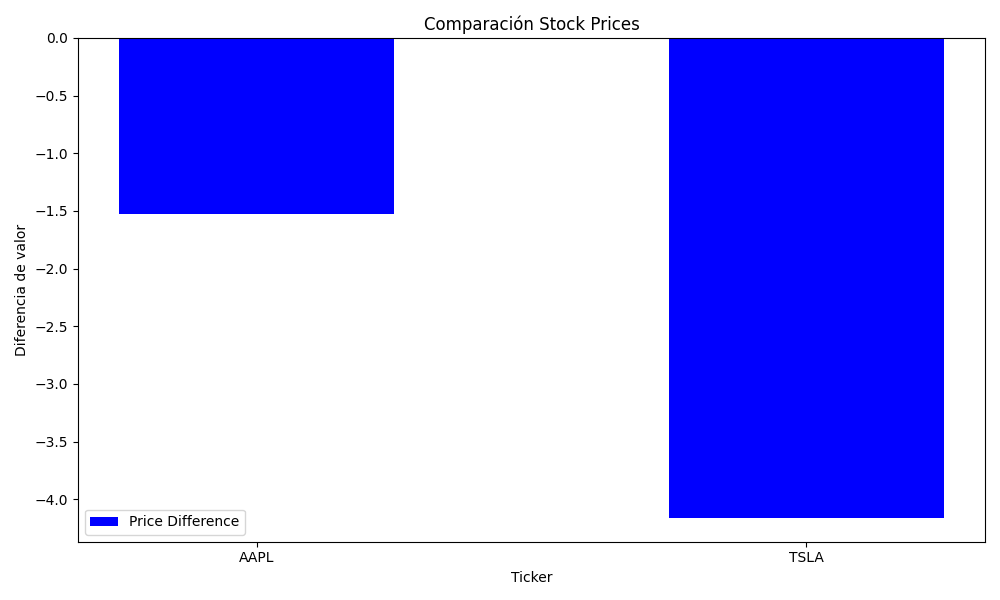
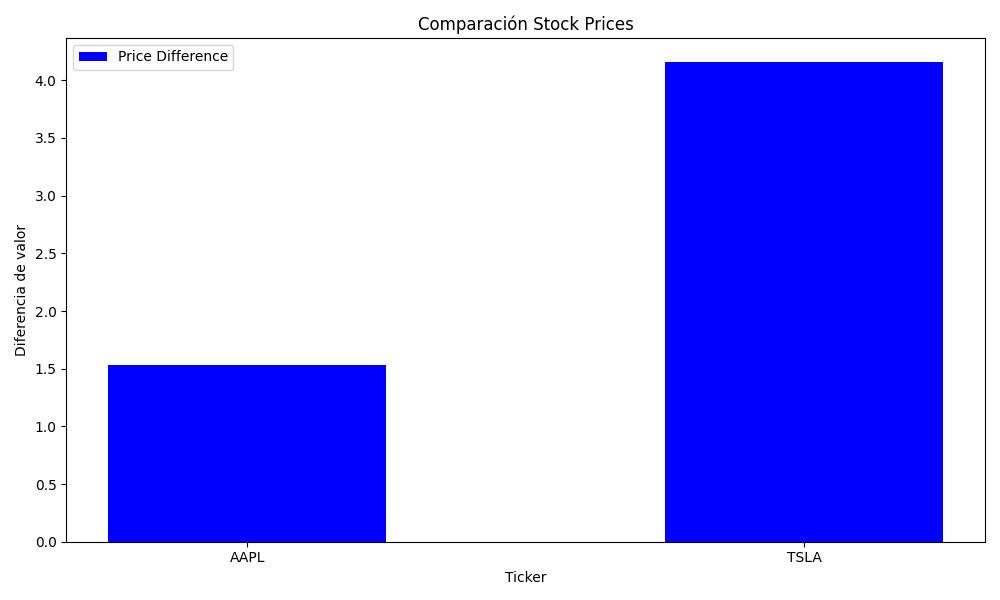
generando gráficos para el informe

diff --git a/app/utils.py b/app/utils.py
@@ -25,7 +25,7 @@ def show_img(df):
 
         for row in df.itertuples():
             labels.append(row.ticker)
-            prices_diffs.append(row.open - row.close)
+            prices_diffs.append(row.close - row.open)
         width = 0.5
         x = range(len(df))
         plt.figure(figsize=(10, 6))

diff --git a/Informe_de_diseño.md b/Informe_de_diseño.md
@@ -1,0 +1,106 @@
+# Informe de Funcionalidad y Diseño
+
+## Introducción
+Este documento describe la funcionalidad y diseño de un programa desarrollado en Python que interactúa con el usuario mediante la terminal para consultar información financiera. El programa permite buscar datos de Apertura/Cierre Diario, donde se le solicitará el ticker a buscar y una fecha en formato, luego realizará la búsqueda de los datos en la base de datos SQLite o realiza la consulta por medio de una API externa si no están disponibles, para luego permitir la descarga del gráfico de diferencias de precios de entrada y salida de cada ticker para el día correspondiente.
+
+## Descripción del funcionamiento
+
+El programa sigue una lógica secuencial con los siguientes pasos principales:
+
+1. Ingreso de datos por el usuario:
+
+    - El usuario introduce un ticker y una fecha a través de la terminal.
+
+2. Consulta en la base de datos:
+
+    - El programa verifica si existen datos relacionados con el ticker y la fecha proporcionados en la base de datos.
+
+    - Si los datos están disponibles, los muestra al usuario.
+
+3. Consulta a la API:
+
+    - Si los datos no se encuentran en la base de datos, el programa consulta una API externa para obtenerlos.
+
+    - Si la API devuelve resultados:
+
+        - Los datos se muestran al usuario.
+
+        - Los datos se guardan en la base de datos para futuras consultas.
+
+    - Si la API no tiene información, el programa informa al usuario y solicita una nueva combinación de ticker y fecha.
+
+4. Realización del gráfico de diferencias de precios entre tickers:
+
+    - Si solamente existe un ticker guardado para la fecha indicada, el programa solicitará al usuario que consulte más tickers para esa fecha.
+    - Si el programa encuentra más de un ticker para la fecha solicitada muestra el gráfico de diferencia para el día consultado y lo guarda en la carpeta img con el nombre "grafico" más la fecha del ticker en formato png.
+
+5. Finalización del programa
+    - Luego de realizar las búsquedas el usuario tiene la posibilidad de detener el programa, se le preguntará si desea seguir consultando y al introducir NO el programa finaliza.
+
+## Diseño del programa
+
+El programa se organiza en módulos para facilitar su mantenimiento y escalabilidad. Las partes principales son:
+
+1. Estructura de archivos:
+
+   - app: Contiene los archivos de la aplicación.
+  
+       - api_client.py: Contiene las funciones para interactuar con la API.
+    
+        - db.py: Gestiona las operaciones con la base de datos.
+    
+        - terminal_app.py: Maneja la interacción con el usuario y la lógica principal del programa.
+    
+        - utis.py: Contiene funciones generales de utilidad.
+      
+        - config.py: Contiene valores de configuración para la aplicación.
+    - img: Contiene las imágenes graficadas para el usuario.
+    - notebooks: Contiene las notebooks para pruebas y el informe de diseño.
+      
+3. Flujo de datos:
+    - El usuario interactúa con terminal_app.py.
+    - Valida los datos utilizando utils.py
+    - Para verificar la disponibilidad de datos consulta a db.py.
+    - Si no hay datos en la base de datos, api_client.py realiza una consulta a la API.
+    - Los resultados de la API, si están disponibles, se guardan mediante db.py.
+    - Los datos se visualizan en la terminal o mediante gráficos generados en una función alojada en utils.py.
+      
+4. Especificaciones técnicas:
+    - Base de Datos:
+        - Nombre: financial_data
+     
+        - Tabla principal: daily_open_close.
+     
+        - Campos: date, ticker, open, close, high, low, volume,  afterHours, preMarket.
+
+    - API:
+  
+        - Se utiliza la API de polygon.io
+              
+    - Gráficos:
+
+        - Librería utilizada: matplotlib.
+
+        - Tipo de gráfico: De barras para comparar las diferencias entre tickers.
+
+## Consideraciones Adicionales
+
+1. Manejo de Errores:
+
+    - Validación de entradas del usuario.
+    - Manejo de excepciones para consultas fallidas a la base de datos o a la API.
+
+3. Persistencia:
+
+    - Datos obtenidos de la API se almacenan para evitar consultas redundantes.
+
+5. Interfaz de Usuario:
+
+    - Diseñada para ser intuitiva y guiar al usuario en cada paso del proceso
+
+## Conclusión
+El programa proporciona una solución eficiente para gestionar consultas financieras, integrando la funcionalidad de una base de datos y una API externa con herramientas de visualización. La estructura modular asegura la extensibilidad y el mantenimiento a largo plazo.
+
+## Anexo
+- Ejemplo de salida en la terminal: 
+- Ejemplo de gráfico:
